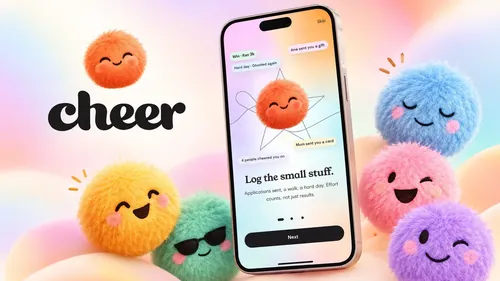
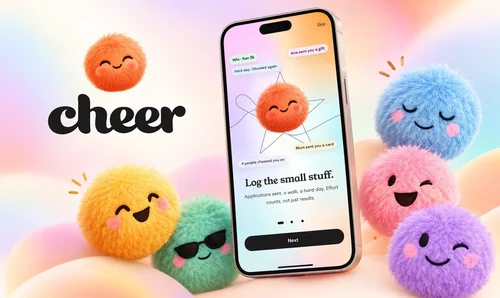
AI Projects: real artwork on every card, and a taller media box
The four video cards become images. Cosmic Pets, Letters from Your Future
Self, Soundtrack of Your Life and Bloom after Rain each get three widths
from Irina's new artwork, and the four hero videos and their posters are no
longer referenced anywhere.

The box goes from 1174/660 to 1174/700. That was the "cut off at the top
and bottom": the four videos were already 16:9 and losing 0.1 to 0.7%, but
Cheer and Vera are 3:2 artwork and were losing 15.7% of their height. All
six sources are now cropped to 1174/700 before export, so every card
renders at 681x406 with 0.01% crop, and the rows stay equal.

Cropping the four 16:9 pieces costs 2.8% from each side. Nothing important
goes: Cosmic Pets' logo starts 5.7% in and Soundtrack's star 5.4%, both
clear of the cut.

Quality is set per image, as the highest that keeps the 800w variant, the
one actually served at this card's size, at or under 56KB, with a floor of
70. Four land between 39 and 55KB; Soundtrack needs 59KB and Cosmic Pets
87KB, because a star field and cut-paper collage do not compress. Crushing
them further costs real quality: Cosmic Pets falls to 31dB at q50.

Also fixed, an error of mine: the width and height attributes I put on the
new images map to presentational hints, and .pc-media declared no height,
so both dimensions became definite and aspect-ratio was ignored. The box
rendered 681x700 and cropped 42%. .pc-media now sets height: auto.
[…]

diff --git a/ai-projects/index.html b/ai-projects/index.html
@@ -103,8 +103,8 @@
 </style></div><div class="yellow-circle-hero"></div><div class="blue-circle"></div><div class="large-pink-circle"></div></section><section id="selected-works" class="section---webflow-intro"><div id="webflow-intro-2" data-w-id="42c83ce9-e06b-a8b4-5723-9e30ec0290d4" class="case-study-block-title big-text webflow"><h2 data-w-id="42c83ce9-e06b-a8b4-5723-9e30ec0290d5" class="heading-23">Selected Works</h2><div data-w-id="42c83ce9-e06b-a8b4-5723-9e30ec0290d7" class="divider center"></div><div id="ai-projects" data-w-id="42c83ce9-e06b-a8b4-5723-9e30ec0290d8" class="intro-big-text webflow-projects">AI Projects</div></div></section><section class="section---selected-works">
 <!-- AI project cards. Replace each placeholder SVG with a real image of the same
      1174x1020 ratio, and edit the copy freely. -->
-<div class="home-project-images-container ai-projects-grid"><div style="--pc: #575ecf" class="small-case-study-link-block ai-project-card ai-project-card--links"><img src="../assets/images/ai-projects/cheer-card.webp" loading="lazy" sizes="(max-width: 767px) 100vw, 681px" srcset="../assets/images/ai-projects/cheer-card-p-500.webp 500w, ../assets/images/ai-projects/cheer-card-p-800.webp 800w, ../assets/images/ai-projects/cheer-card.webp 1174w" alt="Cheer: the wordmark beside a phone showing the onboarding screen, log the small stuff, surrounded by six fluffy pom-pom characters" class="pc-media"/><div class="pc-body"><h2 class="pc-title">Cheer</h2><p class="pc-industry"><strong>Industry:</strong> Wellbeing</p><p class="pc-desc"><strong>A support network, not a social network.</strong> A small, private squad cheers on the things that are hard to do: a job application, a walk on a low day, a habit worth keeping. No followers, no feed, no like counts.</p><div class="pc-tags"><span class="pc-tag">Gen AI</span><span class="pc-tag">LLM Moderation</span><span class="pc-tag">Wellbeing</span><span class="pc-tag">Privacy by Design</span><span class="pc-tag">Accessibility</span><span class="pc-tag">Hackathon</span><span class="pc-tag">Product Design</span><span class="pc-tag">Web App</span></div><div class="ai-cta-row"><a href="https://getcheer.lovable.app" target="_blank" rel="noopener" class="ai-live-link">View live project</a><a href="../case-studies/cheer-case-study/" class="ai-second-link">Case Study</a></div></div></div><div style="--pc: #127a64" class="small-case-study-link-block ai-project-card ai-project-card--links"><img src="../assets/images/ai-projects/vera-card.webp" loading="lazy" sizes="(max-width: 767px) 100vw, 681px" srcset="../assets/images/ai-projects/vera-card-p-500.webp 500w, ../assets/images/ai-projects/vera-card-p-800.webp 800w, ../assets/images/ai-projects/vera-card.webp 1174w" alt="Vera: real advice, better choices. A claim score of 60 beside the app on a phone, checking an influencer’s collagen supplement post against the evidence" class="pc-media"/><div class="pc-body"><h2 class="pc-title">Vera</h2><p class="pc-industry"><strong>Industry:</strong> Health &amp; Nutrition</p><p class="pc-desc"><strong>Score the claim, not the influencer.</strong> A supplement fact-checker built in two days at the ZOE hackathon.</p><div class="pc-tags"><span class="pc-tag">Gen AI</span><span class="pc-tag">LLM</span><span class="pc-tag">Health</span><span class="pc-tag">Fact-checking</span><span class="pc-tag">Hackathon</span><span class="pc-tag">Web App</span><span class="pc-tag">Product Design</span><span class="pc-tag">Mobile Prototype</span></div><div class="ai-cta-row"><a href="https://irinacsapo.github.io/zoe-hackathon-app/" target="_blank" rel="noopener" class="ai-live-link">View live project</a><a href="https://irinacsapo.github.io/zoe-hackathon-app/case-study.html" target="_blank" rel="noopener" class="ai-second-link">Case Study</a></div></div></div><a href="https://www.cosmicpets.love/" target="_blank" rel="noopener" style="--pc: #7b4fd6" class="small-case-study-link-block ai-project-card w-inline-block"><video class="pc-media" muted loop playsinline preload="metadata" poster="../assets/images/cp-hero-bg-dark-v2.webp" aria-hidden="true" tabindex="-1" disablepictureinpicture><source src="../assets/media/cosmic-pets-bg.mp4" type="video/mp4"/></video><div class="pc-body"><h2 class="pc-title">Cosmic Pets</h2><p class="pc-industry"><strong>Industry:</strong> Pets &amp; Personalised Art</p><p class="pc-desc"><strong>Custom cosmic portraits of your pets.</strong> Upload a photo and your pet is reimagined as a one-of-a-kind cosmic portrait.</p><div class="pc-tags"><span class="pc-tag">Gen AI</span><span class="pc-tag">Image Generation</span><span class="pc-tag">E-commerce</span><span class="pc-tag">Product Design</span><span class="pc-tag">Branding</span><span class="pc-tag">Storytelling</span><span class="pc-tag">Web App</span></div><div class="ai-live-link">View live project</div></div></a><a href="https://letters.irina.love" target="_blank" rel="noopener" style="--pc: #a47cd6" class="small-case-study-link-block ai-project-card w-inline-block"><video class="pc-media" muted loop playsinline preload="metadata" poster="../assets/images/letters-hero-web-poster.webp" aria-hidden="true" tabindex="-1" disablepictureinpicture><source src="../assets/media/letters-hero-web.mp4" type="video/mp4"/></video><div class="pc-body"><h2 class="pc-title">Letters from Your Future Self</h2><p class="pc-industry"><strong>Industry:</strong> Wellbeing</p><p class="pc-desc"><strong>A mood, reframed.</strong> Share how you feel today and receive a letter of perspective from the person you are becoming.</p><div class="pc-tags"><span class="pc-tag">Gen AI</span><span class="pc-tag">LLM</span><span class="pc-tag">Wellbeing</span><span class="pc-tag">Storytelling</span><span class="pc-tag">Web App</span><span class="pc-tag">Image Generation</span><span class="pc-tag">Product Design</span></div><div class="ai-live-link">View live project</div></div></a><a href="https://soundtrack.irina.love" target="_blank" rel="noopener" style="--pc: #1f64e0" class="small-case-study-link-block ai-project-card w-inline-block"><video class="pc-media" muted loop playsinline preload="metadata" poster="../assets/images/soundtrack-hero-poster.webp" aria-hidden="true" tabindex="-1" disablepictureinpicture><source src="../assets/media/soundtrack-hero.mp4" type="video/mp4"/></video><div class="pc-body"><h2 class="pc-title">Soundtrack of Your Life</h2><p class="pc-industry"><strong>Industry:</strong> Music &amp; Wellbeing</p><p class="pc-desc"><strong>A moment, recomposed.</strong> Tell it about a moment in your life and it composes an original piece of music for it.</p><div class="pc-tags"><span class="pc-tag">Gen AI</span><span class="pc-tag">Music Generation</span><span class="pc-tag">Storytelling</span><span class="pc-tag">Web App</span><span class="pc-tag">Image Generation</span><span class="pc-tag">Product Design</span><span class="pc-tag">LLM</span></div><div class="ai-live-link">View live project</div></div></a><a href="https://bloom.irina.love" target="_blank" rel="noopener" style="--pc: #c0577f" class="small-case-study-link-block ai-project-card w-inline-block"><video class="pc-media" muted loop playsinline preload="metadata" poster="../assets/images/bloom-rain-hero-web-poster.webp" aria-hidden="true" tabindex="-1" disablepictureinpicture><source src="../assets/media/bloom-rain-hero-web.mp4" type="video/mp4"/></video><div class="pc-body"><h2 class="pc-title">Bloom after Rain</h2><p class="pc-industry"><strong>Industry:</strong> Wellbeing</p><p class="pc-desc"><strong>A loss, regrown.</strong> Turns a loss into a flower that grows in a shared garden of resilience.</p><div class="pc-tags"><span class="pc-tag">Gen AI</span><span class="pc-tag">Image Generation</span><span class="pc-tag">Wellbeing</span><span class="pc-tag">Community</span><span class="pc-tag">Web App</span><span class="pc-tag">LLM</span><span class="pc-tag">Storytelling</span><span class="pc-tag">Product Design</span></div><div class="ai-live-link">View live project</div></div></a></div></section><div class="section---cv border-top no-padding-vertical"><div class="wrapper"><div class="footer-v3"><div class="footer-v3-logo"><a href="../" class="brand no-padding w-nav-brand"><img src="../assets/images/5e9f68d617861b8c6539ccd4_IC_logo_2.svg" alt="Irina Csapo logo" class="image-18"/></a></div><div class="footer-v3-nav"><a href="../" class="footer-v3-link">Home</a><a href="../ai-projects/" class="footer-v3-link">AI Projects</a><a href="../photography/" class="footer-v3-link">Photography</a><a href="../art/" class="footer-v3-link">Art</a><a href="../about/" class="footer-v3-link">About</a><a href="../assets/docs/6a8f880410adf144d77e3d93_v4---Senior-Product-Designer---Irina-Csapo---CV---August-2026.pdf" target="_blank" class="footer-v3-link">CV</a><a href="../contact/" class="footer-v3-link">Contact</a></div><div class="social-icons footer-v3-icons"><a href="https://www.linkedin.com/in/irinacsapo/" target="_blank" rel="noopener" class="social-link facebook w-inline-block"><img src="../assets/images/5eb5fcdaf92b5813c30c4be8_linkedin.svg" width="18" alt="linkedin" class="social-icon-small"/></a><a href="https://www.instagram.com/irina_csapo_art" target="_blank" rel="noopener" class="social-link instagram w-inline-block"><img src="../assets/images/5e9608862c6c0bce460542a0_instagram-icon-white.svg" alt="instagram" class="social-icon-small"/></a><a href="https://irina.love/" target="_blank" rel="noopener" class="social-link dribbble w-inline-block"><img src="../assets/images/5e9608862c6c0b8aea0542ff_store-icon.svg" alt="redbubble" class="social-icon-small"/></a><a href="https://linktr.ee/irina.csapo" target="_blank" rel="noopener" class="social-link behance w-inline-block"><img src="../assets/images/5e9608862c6c0b91bd05429e_rocket-icon.svg" alt="society6" class="social-icon-small"/></a></div><div class="footer-bottom"><div class="footer-bottom-left"><div class="footer-text-left">Created with <span class="heart-icon">love</span> by Irina Csapo</div></div><div class="footer-bottom-right"><div class="text-block-3">© 2026 Irina Csapo – Creative Portfolio. All rights reserved.</div></div></div></div></div></div><script src="../assets/js/jquery.min-2.js" type="text/javascript" crossorigin="anonymous"></script><script src="../assets/js/webflow.schunk.36b8fb49256177c8.js" type="text/javascript" crossorigin="anonymous"></script><script src="../assets/js/webflow.schunk.9f9237bf333f1192.js" type="text/javascript" crossorigin="anonymous"></script><script src="../assets/js/webflow.schunk.bdf58efcee47c042.js" type="text/javascript" crossorigin="anonymous"></script><script src="../assets/js/webflow.58e1bac0.3ac1f7c567b3c54e.js" type="text/javascript" crossorigin="anonymous"></script><script src="../assets/js/gsap/gsap.min.js" type="text/javascript"></script><script src="../assets/js/gsap/SplitText.min.js" type="text/javascript"></script><script src="../assets/js/gsap/ScrollTrigger.min.js" type="text/javascript"></script><!-- Flowbase Cookie Script -->
+<div class="home-project-images-container ai-projects-grid"><div style="--pc: #575ecf" class="small-case-study-link-block ai-project-card ai-project-card--links"><img src="../assets/images/ai-projects/cheer-card.webp" loading="lazy" sizes="(max-width: 767px) 100vw, 681px" srcset="../assets/images/ai-projects/cheer-card-p-500.webp 500w, ../assets/images/ai-projects/cheer-card-p-800.webp 800w, ../assets/images/ai-projects/cheer-card.webp 1174w" alt="Cheer: the wordmark beside a phone showing the onboarding screen, log the small stuff, surrounded by six fluffy pom-pom characters" class="pc-media"/><div class="pc-body"><h2 class="pc-title">Cheer</h2><p class="pc-industry"><strong>Industry:</strong> Wellbeing</p><p class="pc-desc"><strong>A support network, not a social network.</strong> A small, private squad cheers on the things that are hard to do: a job application, a walk on a low day, a habit worth keeping. No followers, no feed, no like counts.</p><div class="pc-tags"><span class="pc-tag">Gen AI</span><span class="pc-tag">LLM Moderation</span><span class="pc-tag">Wellbeing</span><span class="pc-tag">Privacy by Design</span><span class="pc-tag">Accessibility</span><span class="pc-tag">Hackathon</span><span class="pc-tag">Product Design</span><span class="pc-tag">Web App</span></div><div class="ai-cta-row"><a href="https://getcheer.lovable.app" target="_blank" rel="noopener" class="ai-live-link">View live project</a><a href="../case-studies/cheer-case-study/" class="ai-second-link">Case Study</a></div></div></div><div style="--pc: #127a64" class="small-case-study-link-block ai-project-card ai-project-card--links"><img src="../assets/images/ai-projects/vera-card.webp" loading="lazy" sizes="(max-width: 767px) 100vw, 681px" srcset="../assets/images/ai-projects/vera-card-p-500.webp 500w, ../assets/images/ai-projects/vera-card-p-800.webp 800w, ../assets/images/ai-projects/vera-card.webp 1174w" alt="Vera: real advice, better choices. A claim score of 60 beside the app on a phone, checking an influencer’s collagen supplement post against the evidence" class="pc-media"/><div class="pc-body"><h2 class="pc-title">Vera</h2><p class="pc-industry"><strong>Industry:</strong> Health &amp; Nutrition</p><p class="pc-desc"><strong>Score the claim, not the influencer.</strong> A supplement fact-checker built in two days at the ZOE hackathon.</p><div class="pc-tags"><span class="pc-tag">Gen AI</span><span class="pc-tag">LLM</span><span class="pc-tag">Health</span><span class="pc-tag">Fact-checking</span><span class="pc-tag">Hackathon</span><span class="pc-tag">Web App</span><span class="pc-tag">Product Design</span><span class="pc-tag">Mobile Prototype</span></div><div class="ai-cta-row"><a href="https://irinacsapo.github.io/zoe-hackathon-app/" target="_blank" rel="noopener" class="ai-live-link">View live project</a><a href="https://irinacsapo.github.io/zoe-hackathon-app/case-study.html" target="_blank" rel="noopener" class="ai-second-link">Case Study</a></div></div></div><a href="https://www.cosmicpets.love/" target="_blank" rel="noopener" style="--pc: #7b4fd6" class="small-case-study-link-block ai-project-card w-inline-block"><img src="../assets/images/ai-projects/cosmic-pets-card.webp" width="1174" height="700" loading="lazy" sizes="(max-width: 767px) 100vw, 681px" srcset="../assets/images/ai-projects/cosmic-pets-card-p-500.webp 500w, ../assets/images/ai-projects/cosmic-pets-card-p-800.webp 800w, ../assets/images/ai-projects/cosmic-pets-card.webp 1174w" alt="Cosmic Pets: turn your pet into a cosmic portrait. A black cat framed by flowers, crystals and planets, with other pet portraits around it" class="pc-media"/><div class="pc-body"><h2 class="pc-title">Cosmic Pets</h2><p class="pc-industry"><strong>Industry:</strong> Pets &amp; Personalised Art</p><p class="pc-desc"><strong>Custom cosmic portraits of your pets.</strong> Upload a photo and your pet is reimagined as a one-of-a-kind cosmic portrait.</p><div class="pc-tags"><span class="pc-tag">Gen AI</span><span class="pc-tag">Image Generation</span><span class="pc-tag">E-commerce</span><span class="pc-tag">Product Design</span><span class="pc-tag">Branding</span><span class="pc-tag">Storytelling</span><span class="pc-tag">Web App</span></div><div class="ai-live-link">View live project</div></div></a><a href="https://letters.irina.love" target="_blank" rel="noopener" style="--pc: #a47cd6" class="small-case-study-link-block ai-project-card w-inline-block"><img src="../assets/images/ai-projects/letters-card.webp" width="1174" height="700" loading="lazy" sizes="(max-width: 767px) 100vw, 681px" srcset="../assets/images/ai-projects/letters-card-p-500.webp 500w, ../assets/images/ai-projects/letters-card-p-800.webp 800w, ../assets/images/ai-projects/letters-card.webp 1174w" alt="Letters from Your Future Self: write what is on your heart, your future self will write back. A person sitting in a meadow above the clouds at dusk as handwritten letters drift past" class="pc-media"/><div class="pc-body"><h2 class="pc-title">Letters from Your Future Self</h2><p class="pc-industry"><strong>Industry:</strong> Wellbeing</p><p class="pc-desc"><strong>A mood, reframed.</strong> Share how you feel today and receive a letter of perspective from the person you are becoming.</p><div class="pc-tags"><span class="pc-tag">Gen AI</span><span class="pc-tag">LLM</span><span class="pc-tag">Wellbeing</span><span class="pc-tag">Storytelling</span><span class="pc-tag">Web App</span><span class="pc-tag">Image Generation</span><span class="pc-tag">Product Design</span></div><div class="ai-live-link">View live project</div></div></a><a href="https://soundtrack.irina.love" target="_blank" rel="noopener" style="--pc: #1f64e0" class="small-case-study-link-block ai-project-card w-inline-block"><img src="../assets/images/ai-projects/soundtrack-card.webp" width="1174" height="700" loading="lazy" sizes="(max-width: 767px) 100vw, 681px" srcset="../assets/images/ai-projects/soundtrack-card-p-500.webp 500w, ../assets/images/ai-projects/soundtrack-card-p-800.webp 800w, ../assets/images/ai-projects/soundtrack-card.webp 1174w" alt="Soundtrack of Your Life: your life, in its own soundtrack. Four hand-made album covers for original songs, each with a play button, against a purple night sky" class="pc-media"/><div class="pc-body"><h2 class="pc-title">Soundtrack of Your Life</h2><p class="pc-industry"><strong>Industry:</strong> Music &amp; Wellbeing</p><p class="pc-desc"><strong>A moment, recomposed.</strong> Tell it about a moment in your life and it composes an original piece of music for it.</p><div class="pc-tags"><span class="pc-tag">Gen AI</span><span class="pc-tag">Music Generation</span><span class="pc-tag">Storytelling</span><span class="pc-tag">Web App</span><span class="pc-tag">Image Generation</span><span class="pc-tag">Product Design</span><span class="pc-tag">LLM</span></div><div class="ai-live-link">View live project</div></div></a><a href="https://bloom.irina.love" target="_blank" rel="noopener" style="--pc: #c0577f" class="small-case-study-link-block ai-project-card w-inline-block"><img src="../assets/images/ai-projects/bloom-card.webp" width="1174" height="700" loading="lazy" sizes="(max-width: 767px) 100vw, 681px" srcset="../assets/images/ai-projects/bloom-card-p-500.webp 500w, ../assets/images/ai-projects/bloom-card-p-800.webp 800w, ../assets/images/ai-projects/bloom-card.webp 1174w" alt="Bloom after Rain: a gentle space for your next chapter. A dew-covered pink peony at sunrise among flowers, beside an invitation to begin your journey" class="pc-media"/><div class="pc-body"><h2 class="pc-title">Bloom after Rain</h2><p class="pc-industry"><strong>Industry:</strong> Wellbeing</p><p class="pc-desc"><strong>A loss, regrown.</strong> Turns a loss into a flower that grows in a shared garden of resilience.</p><div class="pc-tags"><span class="pc-tag">Gen AI</span><span class="pc-tag">Image Generation</span><span class="pc-tag">Wellbeing</span><span class="pc-tag">Community</span><span class="pc-tag">Web App</span><span class="pc-tag">LLM</span><span class="pc-tag">Storytelling</span><span class="pc-tag">Product Design</span></div><div class="ai-live-link">View live project</div></div></a></div></section><div class="section---cv border-top no-padding-vertical"><div class="wrapper"><div class="footer-v3"><div class="footer-v3-logo"><a href="../" class="brand no-padding w-nav-brand"><img src="../assets/images/5e9f68d617861b8c6539ccd4_IC_logo_2.svg" alt="Irina Csapo logo" class="image-18"/></a></div><div class="footer-v3-nav"><a href="../" class="footer-v3-link">Home</a><a href="../ai-projects/" class="footer-v3-link">AI Projects</a><a href="../photography/" class="footer-v3-link">Photography</a><a href="../art/" class="footer-v3-link">Art</a><a href="../about/" class="footer-v3-link">About</a><a href="../assets/docs/6a8f880410adf144d77e3d93_v4---Senior-Product-Designer---Irina-Csapo---CV---August-2026.pdf" target="_blank" class="footer-v3-link">CV</a><a href="../contact/" class="footer-v3-link">Contact</a></div><div class="social-icons footer-v3-icons"><a href="https://www.linkedin.com/in/irinacsapo/" target="_blank" rel="noopener" class="social-link facebook w-inline-block"><img src="../assets/images/5eb5fcdaf92b5813c30c4be8_linkedin.svg" width="18" alt="linkedin" class="social-icon-small"/></a><a href="https://www.instagram.com/irina_csapo_art" target="_blank" rel="noopener" class="social-link instagram w-inline-block"><img src="../assets/images/5e9608862c6c0bce460542a0_instagram-icon-white.svg" alt="instagram" class="social-icon-small"/></a><a href="https://irina.love/" target="_blank" rel="noopener" class="social-link dribbble w-inline-block"><img src="../assets/images/5e9608862c6c0b8aea0542ff_store-icon.svg" alt="redbubble" class="social-icon-small"/></a><a href="https://linktr.ee/irina.csapo" target="_blank" rel="noopener" class="social-link behance w-inline-block"><img src="../assets/images/5e9608862c6c0b91bd05429e_rocket-icon.svg" alt="society6" class="social-icon-small"/></a></div><div class="footer-bottom"><div class="footer-bottom-left"><div class="footer-text-left">Created with <span class="heart-icon">love</span> by Irina Csapo</div></div><div class="footer-bottom-right"><div class="text-block-3">© 2026 Irina Csapo – Creative Portfolio. All rights reserved.</div></div></div></div></div></div><script src="../assets/js/jquery.min-2.js" type="text/javascript" crossorigin="anonymous"></script><script src="../assets/js/webflow.schunk.36b8fb49256177c8.js" type="text/javascript" crossorigin="anonymous"></script><script src="../assets/js/webflow.schunk.9f9237bf333f1192.js" type="text/javascript" crossorigin="anonymous"></script><script src="../assets/js/webflow.schunk.bdf58efcee47c042.js" type="text/javascript" crossorigin="anonymous"></script><script src="../assets/js/webflow.58e1bac0.3ac1f7c567b3c54e.js" type="text/javascript" crossorigin="anonymous"></script><script src="../assets/js/gsap/gsap.min.js" type="text/javascript"></script><script src="../assets/js/gsap/SplitText.min.js" type="text/javascript"></script><script src="../assets/js/gsap/ScrollTrigger.min.js" type="text/javascript"></script><!-- Flowbase Cookie Script -->
 <script>
 // default time is 90 days
 flowBaseCookie('#cookieBlock', '#accept', '#clr', 30);
-</script><script defer src="../assets/js/copy-email.js"></script><script defer src="../assets/js/card-media.js"></script><script defer src="../assets/js/cookie-note.js"></script></body></html>
+</script><script defer src="../assets/js/copy-email.js"></script><script defer src="../assets/js/cookie-note.js"></script></body></html>

diff --git a/assets/css/project-cards.css b/assets/css/project-cards.css
@@ -171,13 +171,18 @@
   .pc-more { padding: 11px 24px; font-size: 15px; border-width: 1px; }
 }
 
-/* Card media: 16:9 for the AI cards, so the hero videos are shown uncropped
-   and every row keeps the same height. The box is reserved before the video
-   or poster loads, so nothing jumps. */
+/* Card media: a touch taller than 16:9, so the two cards whose artwork is 3:2
+   lose 10.6% of their height to the crop rather than 15.7%. The four that are
+   16:9 give up 2.8% from each side in exchange. Every row keeps the same
+   height, and the box is reserved before the image loads so nothing jumps. */
 .pc-media {
   display: block;
   width: 100%;
-  aspect-ratio: 1174 / 660;
+  /* Needed because these images carry width and height attributes, which map
+     to presentational hints. With both dimensions definite the aspect-ratio
+     above is ignored, and the box took the literal height instead. */
+  height: auto;
+  aspect-ratio: 1174 / 700;
   object-fit: cover;
   border-radius: 20px;
   background-color: #eceaf5;
